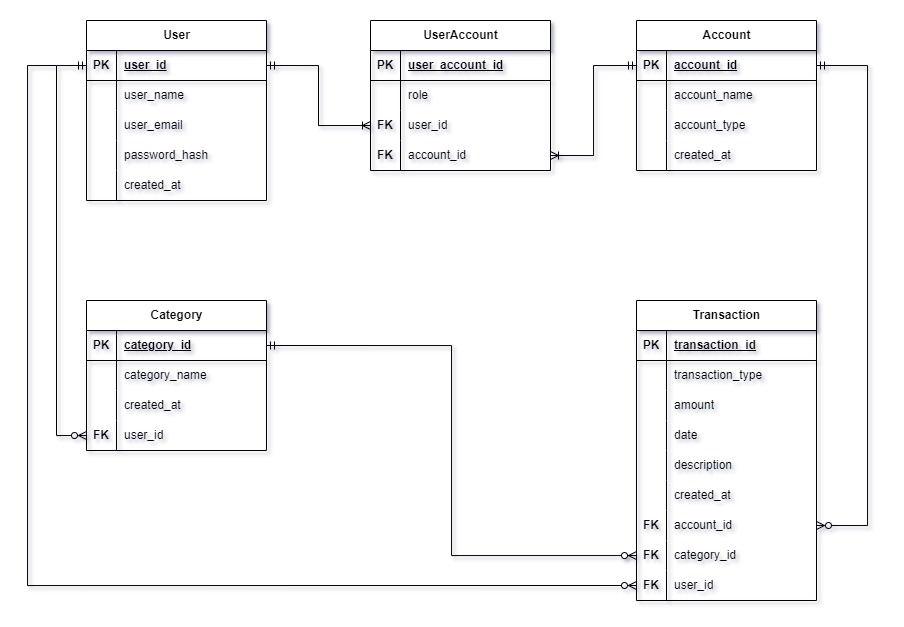
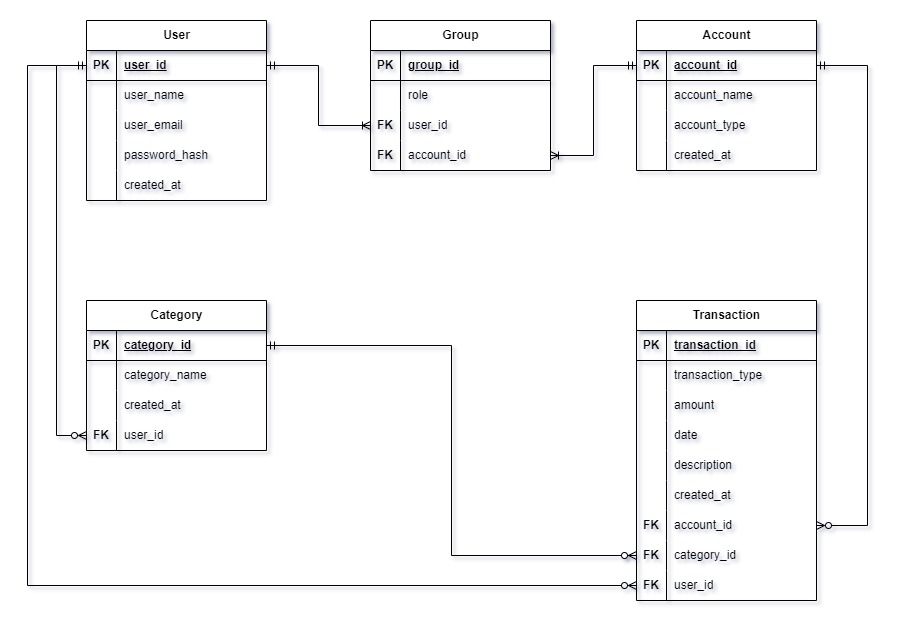
Relationship created between account, group, transaction and user. Group Controller added

diff --git a/src/controllers/group_controller.py b/src/controllers/group_controller.py
@@ -1,0 +1,87 @@
+from datetime import timedelta, date
+
+from flask import Blueprint, request
+from flask_jwt_extended import create_access_token, jwt_required, get_jwt_identity
+
+from models.group import Group, GroupSchema, groups_schema, group_schema
+from models.user import User
+from init import bcrypt, db
+
+group_bp = Blueprint("group", __name__, url_prefix="/groups")
+
+# Allow all groups to be monitored
+@group_bp.route("/all")
+def get_all_groups():
+
+    stmt = db.select(Group).order_by(Group.id)
+    groups = db.session.scalars(stmt)
+
+    return groups_schema.dump(groups)
+
+# Allowing the user to leave a group
+@group_bp.route("/<int:group_id>", methods=["DELETE"])
+@jwt_required()
+def delete_group(group_id):
+    # fetch the group from the db with the id
+    stmt = db.select(Group).filter_by(id = group_id)
+    group = db.session.scalar(stmt)
+
+    # if exists?
+    if group:
+        # delete/leave group
+        db.session.delete(group)
+        db.session.commit()
+
+        # return success message
+        return {"message": f"Group '{group.id}' deleted successfully"}
+    # else
+    else:
+        # return an error saying the comment does not exist
+        return {"error": f"Group with id {group_id} not found"}, 404
+    
+# Allow the admin to update user roles
+@group_bp.route("/update/<int:group_id>", methods=["PUT", "PATCH"])
+@jwt_required()
+def update_role(group_id):
+
+    # get fields from body of the request
+    body_data = GroupSchema().load(request.get_json(), partial=True)
+
+    # fetch the group from db
+    stmt = db.select(Group).filter_by(id=group_id)
+    group = db.session.scalar(stmt)
+
+    # Fetch the current user from the database
+    current_user_id = get_jwt_identity()
+    current_user = db.session.get(User, current_user_id)
+
+    if not current_user:
+        return {"error": "User does not exist"}, 404
+
+    # Get fields from the body of the request
+    body_data = GroupSchema().load(request.get_json(), partial=True)
+
+    # Fetch the group from the database
+    stmt = db.select(Group).filter_by(id=group_id)
+    group = db.session.scalar(stmt)
+
+    if not group:
+        return {"error": "Group does not exist"}, 404
+
+    # Check if the current user is an admin in the same account
+    admin_stmt = db.select(Group).filter_by(user_id=current_user_id, account_id=group.account_id, is_admin=True)
+    admin_group = db.session.scalar(admin_stmt)
+
+    if not admin_group:
+        return {"error": "You are not authorised to update roles for this group"}, 403
+
+    # Update the fields
+    group.role = body_data["role"] or group.role
+    group.is_admin = body_data["is_admin"] or group.is_admin
+
+    # Commit to the database
+    db.session.commit()
+
+    # Return a response
+    return group_schema.dump(group), 200
+    

diff --git a/src/controllers/account_controller.py b/src/controllers/account_controller.py
@@ -3,15 +3,48 @@ from datetime import timedelta, date
 from flask import Blueprint, request
 from flask_jwt_extended import create_access_token, jwt_required, get_jwt_identity
 
-from models.account import Account, AccountSchema, accounts_schema, account_schema
+from models.account import Account, accounts_schema, account_schema
 from init import bcrypt, db
 
 account_bp = Blueprint("account", __name__, url_prefix="/accounts")
 
+# Allow all accounts to be monitored
 @account_bp.route("/all")
 def get_all_accounts():
-    # fetch all cards but order them in date descending
+    
     stmt = db.select(Account).order_by(Account.created_at.desc())
     accounts = db.session.scalars(stmt)
 
     return accounts_schema.dump(accounts)
+
+# # Allow user to create a new account
+# @account_bp.route("/create", methods=["POST"])
+# @jwt_required()
+# def create_account():
+#     # get the data from the body of the request
+#     body_data = account_schema.load(request.get_json())
+
+#     #create a new card model instance
+#     card = Card(
+#         title = body_data.get("title"),
+#         description = body_data.get("description"),
+#         date = date.today(),
+#         status = body_data.get("status"),
+#         priority = body_data.get("priority"),
+#         user_id = get_jwt_identity() # pull token information about the user
+#     )
+
+#     # Create a new instance of an account
+#     account = Account(
+#         name = body_data.get("name"),
+#         type = body_data("type"),
+#         created_at = date.today()
+#         # needs the userAccount
+#     )
+
+#     #add and commit to DB
+#     db.session.add(card)
+#     db.session.commit()
+
+#     # respond
+#     return card_schema.dump(card)

diff --git a/src/controllers/cli_controller.py b/src/controllers/cli_controller.py
@@ -6,6 +6,7 @@ from init import db, bcrypt
 from models.user import User
 from models.account import Account
 from models.transaction import Transaction
+from models.group import Group
 
 db_commands = Blueprint("db", __name__)
 
@@ -37,6 +38,18 @@ def seed_tables():
         User(
             name = "User 1",
             email = "user1@email.com",
+            password_hash = bcrypt.generate_password_hash("123456AA").decode("utf-8"),
+            created_at = date.today()
+        ),
+        User(
+            name = "User 2",
+            email = "user2@email.com",
+            password_hash = bcrypt.generate_password_hash("123456AA").decode("utf-8"),
+            created_at = date.today()
+        ),
+        User(
+            name = "User 3",
+            email = "user3@email.com",
             password_hash = bcrypt.generate_password_hash("123456AA").decode("utf-8"),
             created_at = date.today()
         )
@@ -71,6 +84,32 @@ def seed_tables():
     ]
 
     db.session.add_all(accounts)
+
+    groups = [
+        Group(
+            role = "Admin",
+            user = users[0],
+            account = accounts[1],
+            is_admin = True
+        ),
+        Group(
+            role = "Viewer",
+            user = users[1],
+            account = accounts[1]
+        ),
+        Group(
+            role = "Contributor",
+            user = users[3],
+            account = accounts[1]
+        ),
+        Group(
+            role = "Viewer",
+            user = users[2],
+            account = accounts[2]
+        )
+    ]
+
+    db.session.add_all(groups)
 
     transactions = [
         Transaction(

diff --git a/src/models/account.py b/src/models/account.py
@@ -1,7 +1,6 @@
 from init import db, ma
-from marshmallow import fields, validates
+from marshmallow import fields
 from marshmallow.validate import Length, And, Regexp, OneOf
-from marshmallow.exceptions import ValidationError
 
 VALID_TYPES = ("Regular Savings", "Personal Checking", "Business Checking", "Joint Account", 
                "Investment", "Retirement", "Credit", "Emergency Fund", "Health Savings", 
@@ -20,13 +19,15 @@ class Account(db.Model):
     type = db.Column(db.String, nullable=False)
     created_at = db.Column(db.Date)
 
-    transactions = db.relationship("Transaction", back_populates="account", cascade="all, delete")
+    group = db.relationship("Group", back_populates="account")
+    transaction = db.relationship("Transaction", back_populates="account")
 
 class AccountSchema(ma.Schema):
 
     # a list of nested fields
-    transactions = fields.List(fields.Nested("TransactionSchema", exclude=["account"]))
-
+    group = fields.List(fields.Nested("GroupSchema", exclude=["account"]))
+    transaction = fields.List(fields.Nested("TransactionSchema", exclude=["account"]))
+    
     # Uses marshmallow to create some validations
     name = fields.String(required = True, validate = And(
         Length(min = 2, error = "Title must be at least 2 characters long"),
@@ -36,7 +37,7 @@ class AccountSchema(ma.Schema):
     type = fields.String(validate=OneOf(VALID_TYPES))
 
     class Meta:
-        fields = ("id", "name", "type", "created_at", "transactions")
+        fields = ("id", "name", "type", "created_at", "group", "transaction")
 
 # to handle a single user object
 account_schema = AccountSchema()

diff --git a/src/models/group.py b/src/models/group.py
@@ -1,0 +1,40 @@
+from init import db, ma
+from marshmallow import fields
+from marshmallow.validate import OneOf
+
+VALID_TYPES = ("Admin", "Contributor", "Viewer")
+
+class Group(db.Model):
+    # define the table name
+    __tablename__ = "groups"
+
+    # defin the primary key
+    id = db.Column(db.Integer, primary_key=True)
+
+    # more attributes(columns)
+    role = db.Column(db.String(100), nullable=False)
+    is_admin = db.Column(db.Boolean, default=False)
+
+    # Foreign relation
+    user_id= db.Column(db.Integer, db.ForeignKey("users.id"), nullable=False)
+    account_id = db.Column(db.Integer, db.ForeignKey("accounts.id"), nullable=False)
+
+    user = db.relationship("User", back_populates = "group")
+    account = db.relationship("Account", back_populates = "group")
+
+class GroupSchema(ma.Schema):
+    # a list nested fields
+    user = fields.Nested("UserSchema", only=["name", "email"])
+    account = fields.Nested("AccountSchema", exclude=["group"])
+
+    # Uses marshmallow to create some validations
+    role = fields.String(validate=OneOf(VALID_TYPES))
+
+    class Meta:
+        fields = ("id", "role", "is_admin", "user", "account")
+
+# to handle a single user object
+group_schema = GroupSchema()
+
+# to handle a list of user objects
+groups_schema = GroupSchema(many=True)

diff --git a/src/models/transaction.py b/src/models/transaction.py
@@ -18,14 +18,14 @@ class Transaction(db.Model):
     user_id = db.Column(db.Integer, db.ForeignKey("users.id"), nullable=False)
     account_id = db.Column(db.Integer, db.ForeignKey("accounts.id"), nullable=False)
     
-    user = db.relationship("User", back_populates = "transactions")
-    account = db.relationship("Account", back_populates = "transactions")
+    user = db.relationship("User", back_populates = "transaction")
+    account = db.relationship("Account", back_populates = "transaction")
 
 class TransactionSchema(ma.Schema):
 
     # a list of nested fields
     user = fields.Nested("UserSchema", only=["name", "email"])
-    account = fields.Nested("AccountSchema", exclude=["accounts"])
+    account = fields.Nested("AccountSchema", exclude=["transaction"])
 
     # Uses marshmallow to create some validations
     type = fields.String(validate=OneOf(VALID_TYPES))

diff --git a/src/models/user.py b/src/models/user.py
@@ -16,12 +16,14 @@ class User(db.Model):
     created_at = db.Column(db.Date)
     
     # Foreign relation
-    transactions = db.relationship("Transaction", back_populates = "user",cascade="all, delete")
+    group = db.relationship("Group", back_populates = "user")
+    transaction = db.relationship("Transaction", back_populates = "user")
 
 class UserSchema(ma.Schema):
 
     # a list of nested fields
-    transactions = fields.List(fields.Nested('TransactionSchema', exclude=["user"]))
+    group = fields.List(fields.Nested("GroupSchema", exclude=["user"]))
+    transaction = fields.List(fields.Nested("TransactionSchema", exclude=["user"]))
 
     # a list of required fields
     email = fields.String(required=True, 

diff --git a/src/main.py b/src/main.py
@@ -37,4 +37,7 @@ def create_app(): # create the flask within a def
     from controllers.account_controller import account_bp
     app.register_blueprint(account_bp)
 
+    from controllers.group_controller import group_bp
+    app.register_blueprint(group_bp)
+
     return app

diff --git a/README.md b/README.md
@@ -150,6 +150,6 @@ Live link: [API Webserver: Income & Expense Tracker](https://trello.com/b/Xe5Zb2
    <img src="docs/planning/erd/ExpenseERD 240708.jpg">
 </p>
 <p align="center">Stage Design: Final
-   <img src="docs/planning/erd/ExpenseERD 240715.jpg">
+   <img src="docs/planning/erd/ExpenseERD 240716.jpg">
 </p>
 </details>
